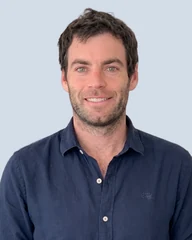
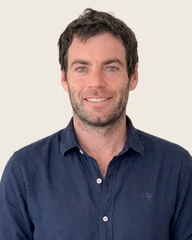
290826-1

diff --git a/index.html b/index.html
@@ -933,7 +933,7 @@
       overflow: hidden;
       border-radius: var(--radius-md);
       border: 1px solid var(--border);
-      background: #D2DCE7;
+      background: #EFE9DF;
     }
     .persona-foto img {
       display: block;
